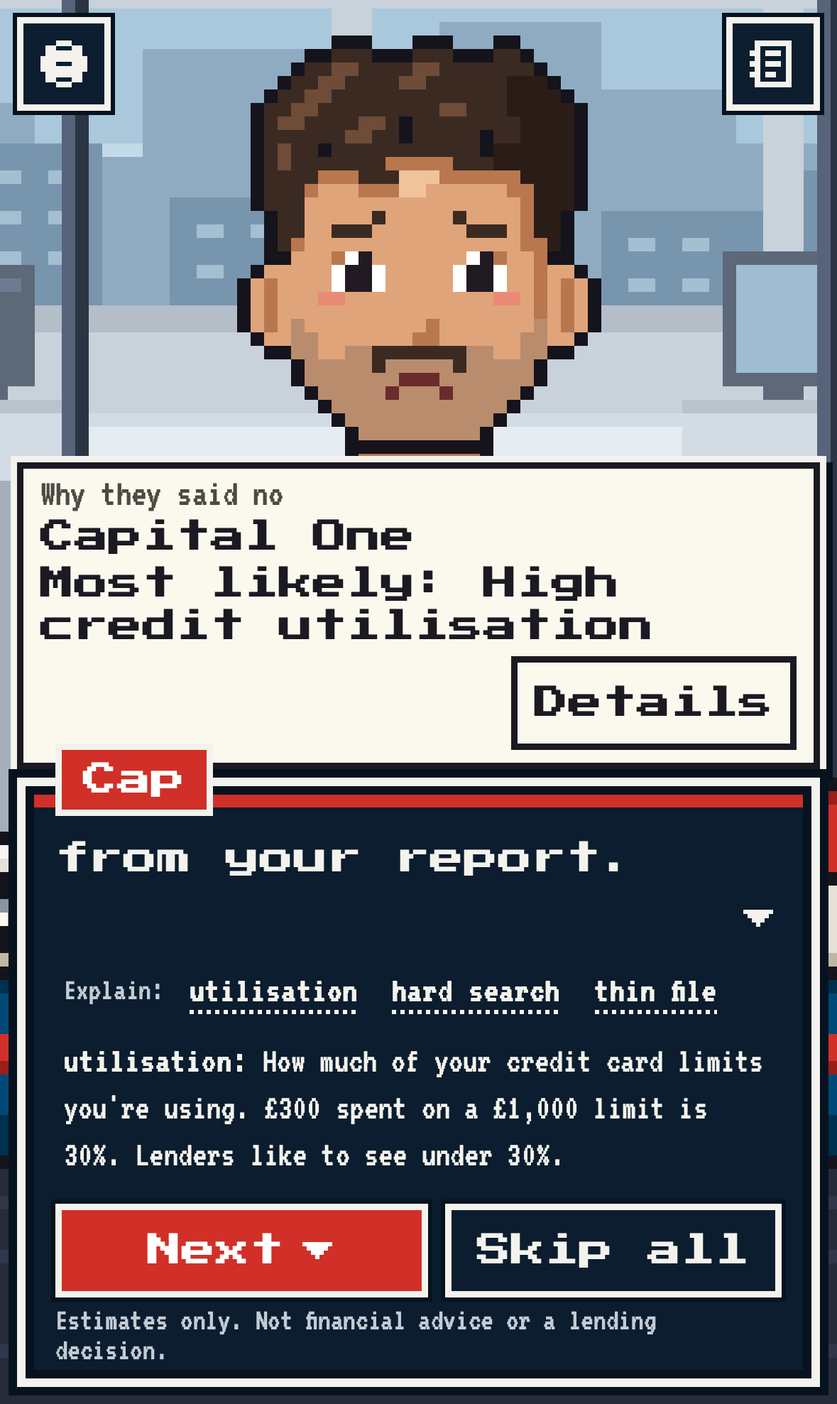
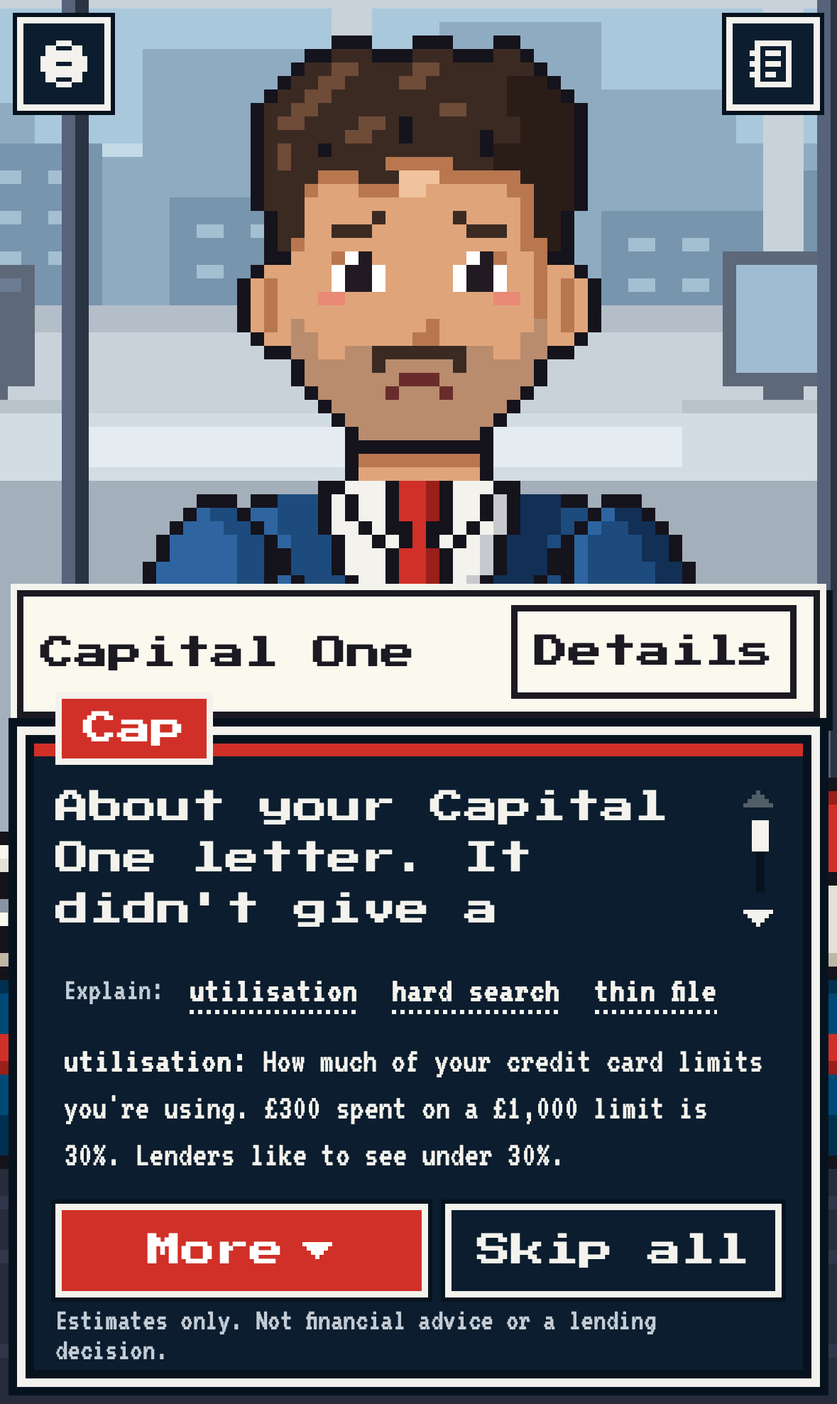
118: RESULT and status done; demo script (20 taps, 173.1 s robot at 1x, 133.3 s at 2x) and DEMO.md (rehearsal gate time, text speed, checks, 118 rehearsal); walk.mjs taps the desk sheet only when uncovered (150% on a phone: Read it, pre-existing on main); contrast.mjs merges every :root block (the P

Changed region(s): [[0.0, 0.3085, 1.0, 0.6788], [0.2748, 0.8639, 0.3359, 0.8948]]

diff --git a/handoffs/118-continuous-typing.md b/handoffs/118-continuous-typing.md
@@ -1,7 +1,7 @@
 ---
 id: 118
 title: Continuous typing in one message, the box scrolls line by line (no page breaks)
-status: in-progress
+status: done
 owner: mihael
 concept: lenders-eyes
 created: 2026-11-08
@@ -26,14 +26,14 @@ Within one message the text types out continuously, with no Next mid-message. Wh
 - Branch `mihael/118` from `main`, not the `/handoff` status flip on `main`: the user asked for main to stay untouched unless every check passes.
 
 ## Requirements
-- [ ] One message types continuously. The box shows its usual number of lines. At the end of the last visible line it scrolls up one line (smooth, about 150 ms) and keeps typing.
-- [ ] Next (tap, Space, Enter) only once the whole message has typed. A tap while typing finishes the message at once, scrolled to its end.
-- [ ] The page-break logic for messages is removed. The speech-bubble fallback uses the same scrolling.
-- [ ] Demo mode: auto-advance after the whole message finishes, with a reading pause based on its length (as now).
-- [ ] Reduced motion: the whole message at once. If it is longer than the box, the box scrolls by tap or arrow keys, with a visible scroll indicator.
-- [ ] Screen readers still get the whole message at once in the live region.
-- [ ] Text size 125% and 150%, and Readable font, still fit and scroll correctly.
-- [ ] `deliverables/pitch/demo-script.md`: the new tap count and time. `app/DEMO.md` if anything changed.
+- [x] One message types continuously. The box shows its usual number of lines. At the end of the last visible line it scrolls up one line (smooth, about 150 ms) and keeps typing.
+- [x] Next (tap, Space, Enter) only once the whole message has typed. A tap while typing finishes the message at once, scrolled to its end.
+- [x] The page-break logic for messages is removed. The speech-bubble fallback uses the same scrolling.
+- [x] Demo mode: auto-advance after the whole message finishes, with a reading pause based on its length (as now).
+- [x] Reduced motion: the whole message at once. If it is longer than the box, the box scrolls by tap or arrow keys, with a visible scroll indicator.
+- [x] Screen readers still get the whole message at once in the live region.
+- [x] Text size 125% and 150%, and Readable font, still fit and scroll correctly.
+- [x] `deliverables/pitch/demo-script.md`: the new tap count and time. `app/DEMO.md` if anything changed.
 
 ## Out of scope
 - The backend, the contract, the camera framing, the menus' own paging (choices still page with More), `context/`
@@ -48,4 +48,113 @@ On the iPhone 15 profile and desktop:
 ---
 
 ## RESULT (filled in by Claude Code)
-- Status: in progress
+- **Status: done. Every check passed, so `mihael/118` is merged into `main` with `--no-ff` and pushed.**
+- Time taken: about 2 h, 2026-11-08 01:41 to ~03:45, unattended. Most of it was verification: two review rounds, and the matrix run three times on frozen code.
+
+### Read this first (three things you may want to change)
+1. **The demo is longer now: 20 taps, 173.1 s with a robot** (it was 113.2 s), about 3:10 with your own taps.
+   - Every line now types out before its reading pause, as asked: "reading pause based on its length, as now".
+   - **Text speed 2x** keeps the same 20 taps: 133.3 s, about 2:30 with your taps. It's one setting on the phone; the demo script and DEMO.md say so.
+   - If you'd rather keep 1x and about 2:00: subtract the typing time from Demo mode's pause, e.g. `max(min, 250*words - typedMs)` in `App.tsx`'s `demoPause`. I did not, because you specified the pause.
+2. **Demo mode now types.** Since 114 it had shown instant text. Your spec, "auto-advance after the whole message finishes", only works if the text types, and instant text would never show a long line's hidden lines. The Settings hint no longer says "Instant text".
+3. **Pre-existing on `main`, not from 118:** at 150% text on the iPhone, the summary sheet on the desk is covered by the paper's window and the box, so it can't be tapped.
+   - I proved it on `main` itself: I put `main`'s `src` back in the working tree for one run, and `walk.mjs --text 150` failed the same way (`main-text150/iphone-declined-FAILED.png` in the session scratchpad), then restored the branch.
+   - The paper still opens with **Read it** in its window. `walk.mjs` now taps the desk sheet only when it is uncovered, and logs which way it opened the paper.
+   - The app is unchanged here. It's a follow-up (below).
+
+### What was built
+- **One message types out continuously.**
+  - The box shows its usual lines: 3 with the camera.
+  - When typing reaches the end of the last visible line, the text slides up one line (`transform`, 150 ms ease-out) and typing waits that long before the new line's first letter.
+  - Measured on the iPhone: each scroll settles in 134 to 135 ms. In 100 frames of typing the letter being typed was never outside the box.
+  - The whole message is in the DOM: printed and unprinted spans. Where each visual line starts is measured with `Range` rects in the existing hidden measurer (`lineStarts` in `GameBox.tsx`), again on font load and resize.
+- **Next only once the whole message has typed.**
+  - While it types, the button says **Show all** and the ▼ is hidden.
+  - A tap, Space, Enter or Show all while typing finishes it at once, scrolled to its end, with no animation. Even a one-line jump is instant.
+- **Page breaks removed.** 117's `paginate`, its break rules and the "extra line" orphan logic are gone. The speech bubble uses the same window and the same scrolling: checked in landscape, tops 0,1,2,3.
+- **Reduced motion and Instant text:** the whole message at once, from its top. A message longer than the box gets a pixel **scroll indicator** in the ▼ gutter: a ▲ that lights when there is text above, a track with the part in view, and a ▼.
+  - **Tap, Space or Enter** scroll on a box-full; at the end they go on.
+  - **↑ ↓** scroll a line, **Page Up/Down** a box-full, and **Home/End** jump (Home/End with the text focused). The wheel scrolls one line a notch.
+  - The **big button says More** while lines are below and scrolls first, so it never skips them (review finding). It says Next at the end. A line that ends its turn on Continue shows More first too.
+  - The arrow keys never take over a menu, a text field, a slider, a sheet or the notebook.
+- **Demo mode:**
+  - Each line types out, then waits 250 ms a word of the whole line: at least 1.2 s, at least 2.5 s with an item window. Then it moves on. It never moves mid-line.
+  - Shown whole (reduced motion), it scrolls on a box-full at a time, each with the pause for the words in view.
+  - It still stops at choices, the paper, the business card and the first Why?, once the line's end is in view.
+  - **Skip all** lands on the turn's last line already typed out.
+- **Screen readers:** the live region still gets the whole message at once.
+  - When a long line can scroll, the text window is a focusable region labelled "Cap's line, scrolls with the up and down arrow keys", holding the line as screen-reader text.
+  - A tap never moves focus there, so a phone's keyboard stays open. Focus that is there stays on the next line, rather than dropping to the page.
+- **Text size and fonts:** the window is `calc(N * 1lh)`. `1lh` follows VT323's `font-size-adjust` (26.0 px, where `getComputedStyle` says 26.4), so it always holds whole lines. Checked at 125%, 150%, Readable and 150% Readable, on both profiles.
+- Kit `useTypewriter` has a new optional `pauseBefore(i)`. Both kit copies are identical (`diff -r` empty).
+
+### Verification (2026-11-08, frozen code at `a92a747` plus script-only changes; offline stack and mock)
+Stacks:
+- **Live, offline:** backend `PORT=8001 DEMO_OFFLINE=true ANTHROPIC_API_KEY= pnpm start`, which printed "Claude OFF (DEMO_OFFLINE=true: cache, then templates); 218 cached outputs". Frontend `VITE_USE_MOCK=false API_TARGET=http://localhost:8001 vite --port 5174 --host`.
+- **Mock:** the frontend on :5176.
+- Your own `pnpm dev` on :5173/:8000 was left alone.
+
+| Check | iPhone 15 (WebKit) | Desktop 1440x900 (Chromium) |
+|---|---|---|
+| The 20 checks, `checks.mjs --base :5176 --live-base :5174 [--desktop]` | `all 20 passed` | `all 20 passed` |
+| Demo walk, live offline stack on the LAN URL `http://172.20.10.6:5174`, `SKIP=steps,reasons,plan NOWHY=1` | `TOTAL 20 taps, 173.1s`; 2x: `TOTAL 20 taps, 133.3s`. Exit 0, no PROBLEM, `requests to other hosts: 0` | `TOTAL 20 taps, 174.5s`, exit 0, no PROBLEM, `requests to other hosts: 0` |
+| 118 checks, `typing.mjs [--desktop]` | `all 30 passed` | `all 28 passed` (no landscape bubble on desktop) |
+| Keyboard only, `walk.mjs --keyboard` | exit 0, 42 shots, 0 PROBLEM | exit 0, 42 shots, 0 PROBLEM |
+| Reduced motion, `--reduced`; and `--keyboard --reduced` | exit 0 / exit 0 | exit 0 |
+| 150% text, `--text 150` | exit 0. The paper opened with Read it; the desk is covered (pre-existing, see above) | exit 0 |
+| Readable font / typing at 1x / live offline stack | exit 0 / exit 0 / exit 0 | — / exit 0 / exit 0 |
+
+- **The demo walk holds:** it waits for the line to type out, requires `data-demo="hold"`, then checks the line is still there past its reading pause. It held at the Why? moment and at the paper.
+- **Static:** `pnpm typecheck` exit 0; `pnpm --filter backend test` `Tests 101 passed (101)`; `pnpm --filter frontend build` built; `node scripts/contrast.mjs` `all pairs pass`; kit `diff -r` empty.
+- **Fixed in a script, not the app:** `contrast.mjs` failed in the first matrix ("token missing", 55 pairs).
+  - The PWA commit `426eaca` on `main` added a safe-area `:root {}` block before the colour tokens, and the script read only the first block. `main`'s `index.css` has the same block order, so it fails there too; I didn't run it on `main`.
+  - It now merges every block with the same selector. 118 adds no colour values.
+- **Screens:**
+  - Committed: `app/frontend/screens/118-{iphone,desktop}-*.png` (typed out, tap to finish, reduced motion top and scrolled, 125/150/Readable, the bubble), refreshed `check-*.png` and new `check-desktop-*.png`.
+  - The ones I looked at: iPhone typing mid-scroll and typed out, tap-finished, reduced motion top (with More), 150%, Readable, the landscape bubble; desktop reduced motion top (before and after the 1rem indicator fix), 150% (the bubble); the demo walk's Why? stop and what-if; the 150% paper failure on the branch and on `main`.
+  - The other screens are from the same checks, which passed, but I didn't open each one.
+  - Walk and demo-walk screens are in the session scratchpad, not committed, to avoid churning about 300 PNGs.
+
+### Review
+The `reviewer` agent read the diff twice, without browsers while the timings ran.
+- **Round 1:** no logic or crash bugs in the scroll model, `advance`, Skip all or Demo mode holds; kit copies identical.
+  1. Docs not updated: done.
+  2. Demo longer: measured, kept as you specified, 2x documented.
+  3. In reduced motion the Next button skipped the lines below the box: **fixed** with More (`f6ac3f9`).
+  4. Focus dropped to `<body>` when the text stopped being scrollable: **fixed** with `tabIndex -1` and the region's text.
+- **Round 2:**
+  - Continue still skipped lines in reduced motion: **fixed**, More first.
+  - A tap on the text could take focus off a phone's text field: **fixed** with `mousedown` `preventDefault` (`a92a747`).
+  - It confirmed More never shows wrongly in typed mode, and `-1` doesn't change the Tab order.
+- The whole matrix ran again after round 2's fixes (which include round 1's). The walks ran once more after the `walk.mjs` paper-step change.
+
+### Files changed (`git diff --stat main...mihael/118`, without PNGs)
+- `app/frontend/src/`:
+  - `App.tsx`
+  - `game/GameBox.tsx`
+  - `game/PixelArrow.tsx`: ▲
+  - `chat/Dock.tsx`: More
+  - `index.css`
+  - `settings.tsx` and `sheets/SettingsSheet.tsx`: the Demo mode hint
+  - `npc/hooks.ts`
+- `app/npc-concept/src/npc/hooks.ts`: identical to the frontend copy
+- `app/frontend/scripts/`:
+  - `typing.mjs`: new
+  - `demo-walk.mjs`: whole lines, typing counts as progress, strict holds, `SPEED`, `DESKTOP`
+  - `checks.mjs`: `--desktop`
+  - `walk.mjs`: `--speed`, the desk-or-Read-it paper step
+  - `contrast.mjs`
+- `app/DISCLOSURES.md`: one row, no new libraries
+- `app/DEMO.md`: the rehearsal gate's time, text speed, `?demo=1` wording, the check commands, a rehearsal entry
+- `deliverables/pitch/demo-script.md`: 20 taps, the 1x times, the 2x option
+- `handoffs/INDEX.md`: the 118 row, and 117 set to done (its file already said done)
+- Screens
+
+### Open issues / follow-ups
+- **The demo length** (see Read this first): choose 1x (about 3:10) or 2x (about 2:30) before judging, and re-run the rehearsal gate with `SPEED=2x` if 2x.
+- **At 150% text on a phone, the desk sheet is covered** by the paper's window and the box, on `main` too. Read it works. A fix would keep the box under the desk top while the paper is on the desk, e.g. fewer text rows there. Not done: it's pre-existing and touches the camera's layout.
+- **Not checked on a device:** Safari on the iPhone, the scroll's feel at 120 Hz, a tap on the text with the keyboard open (the fix is standard WebKit behaviour, untested on iOS), and VoiceOver on the scrollable region.
+- **The optional Why? beat, re-timed:** the same walk with `NOWHY` unset (Why? opened and closed at the hold) gave `TOTAL 22 taps, 174.0s`, exit 0, `requests to other hosts: 0`, against 173.1 s without it.
+  - So it costs 2 taps, and its time is whatever you spend talking over the drawer.
+  - The two other optional beats (steps in full, read aloud) are not re-timed after 118; the script says so.
+- Prompt deltas: none. It ran unattended from one prompt; every judgement call above is mine.

diff --git a/deliverables/pitch/demo-script.md b/deliverables/pitch/demo-script.md
@@ -1,44 +1,47 @@
-# Demo script: about 2 minutes, 20 taps, on the iPhone
+# Demo script: about 3 minutes (2:30 at text speed 2x), 20 taps, on the iPhone
 
 Before judging:
 - `pnpm dev` from the repo root, phone on the hotspot, opened on the frontend's `Network:` URL. Backend warm (one full declined walk with Priya).
 - In Settings (the gear, top left): **Demo mode ON**, **Plain English ON**, read aloud OFF, Camera **B** (the default). Then Start again.
+- Text speed: **1x** is the default and the full typing look. **2x** keeps the same 20 taps and saves about 40 s (robot run 2:13, about 2:30 with your taps): set it if the slot is tight.
 - Ring/silent switch off and volume up, for the optional read-aloud beat (iPhone mutes the web voice in silent mode).
 - Backups: `DEMO_OFFLINE=true` (every answer path of the declined branch is cached in Claude's words), then the recorded video.
 
 **117: Cap is close now.** He fills the screen: waist up, his hands on the keyboard, the Capital One monitor beside him, his words in the box at the bottom.
 
-**Demo mode moves on by itself**, page by page:
-- Each page waits about a quarter of a second a word: at least 1.2 s, and at least 2.5 s when an item window is up.
+**118: each line types out in one go.** When it fills the box, the text scrolls up a line and keeps typing, like an old RPG. There is no Next in the middle of a line.
+
+**Demo mode moves on by itself**, line by line:
+- Each line types out, then waits about a quarter of a second a word of the whole line: at least 1.2 s, and at least 2.5 s when an item window is up.
 - It stops only where you act: a choice, the paper on the desk, the business card, and the first reason's **Why?**.
-- Tap **Next** (or the box) to go faster. **Skip all** jumps to the end of what he is saying.
+- Tap the box (or **Show all**) to finish a line at once, then **Next** to go faster. **Skip all** jumps to the end of what he is saying, its last line already typed out.
 
-Words in quotes are Cap's lines on this path (Priya, declined branch, Plain English on). They come from the real backend, walked on 2026-11-08 with `demo117.mjs` (WebKit, iPhone 15 profile). The plan starts on Monday 9 Nov 2026; re-check the dates and numbers at freeze.
+Words in quotes are Cap's lines on this path (Priya, declined branch, Plain English on). They come from the backend's cached Claude wording, walked on 2026-11-08 ~02:45 after 118 with `app/frontend/scripts/demo-walk.mjs` on the offline stack (`DEMO_OFFLINE=true`, WebKit, iPhone 15 profile, text speed 1x). The plan starts on Monday 9 Nov 2026; re-check the dates and numbers at freeze.
 
-Taps are numbered. Times are from the real run, with a robot tapping at once; leave about 15 to 20 s more for your own taps.
+Taps are numbered. Times are from that run, with a robot tapping at once (it also waits out each stop to check Demo mode holds); leave about 15 to 20 s more for your own taps.
 
 | Time | Do (taps) | Judges see | Say |
 |---|---|---|---|
 | 0:00 | Open the app (or Settings → Start again). **1** Put the card away | Cap at the Capital One desk: "Hi, nice to meet you. My name's Cap, here's my card." He slides it across the desk and it fills the screen: the logo, his portrait, **Cap**, **Credit Coach**, "Here to make your credit make sense" | "This is Cap, a credit coach at the Capital One desk. Today he's helping Priya: 23, renting, one card. Capital One just turned her down for a Balance Transfer card, and the letter doesn't say why." |
 | 0:04 | **2** "Nice to meet you, Cap!" | (by itself) "Nothing we do here is a credit search, so it can't harm your score." / "I understand you're here to make your credit better. Where should we start?" with four choices | "He starts where she is: declined, with a report, getting ready, or new to credit." |
-| 0:10 | **3** "I've been declined already" | "Oh, I'm sorry. That's frustrating, and the letter rarely says why. Let's work it out together." / "Have you got the letter they sent?" | |
-| 0:18 | **4, 5, 6** Use a sample, once each time he asks (the letter, her report, her bank data) | He takes each one: "Thanks, that's your Capital One letter." / "Thanks, Priya. I've got your Experian report." / "Your score there is 700 out of 999." / "Got it. After rent, bills and the basics you have about £290 a month left over." | "She hands over the letter, her Experian report and three months of bank data. Real uploads work too: Upload, or drop a file anywhere on the page." |
-| 0:40 | (by itself, about 27 s) | "About your Capital One letter. It didn't give a reason, so I've worked out the most likely ones from your report." with the **Why they said no** window: Capital One, most likely high credit utilisation. Then "The one fix that matters most: get your cards under 30% (£348 or less)." / "Pay £175 extra this month, then £215 a month." / "Don't apply again before Jul 2027." / "Run Capital One QuickCheck first. It's a soft search…" / her rights | "First, why she was declined: likely reasons, ranked. The one fix that matters most, and when to try again: not before July 2027, and only after a soft-search QuickCheck." |
-| 1:07 | **7** "What can I do?", **8** Skip all | "Here's where to start. Three steps…" (dated steps; Skip all goes to the goals question) | "Then concrete steps, with her own dates and amounts." |
-| 1:08 | **9** "The Balance Transfer card", **10** "3 months", **11** "Yes, I can", **12** "No" | "Now, what would you like to aim for?" / "And how soon? I can plan for the next 3 months or the next 6." / "Your report says you're not on the electoral roll at your current address. Can you register to vote there?" / "You pay the minimum on your Barclaycard each month. Is that set up as a Direct Debit?" | "Four questions: her goal, how soon, and two things he spotted in her data." |
-| 1:17 | (by itself, about 13 s) | "Thanks! Give me a moment to build your plan towards the Balance Transfer card." Then "Two things are holding you back most right now…" / "Here's what's holding your score back, worst first." He **stops** on "You're using 79% of your £1,200 total limit (£950)." with the **Reason 1** window: Credit utilisation, **Problem**, a 10-block health bar, "79% of your £1,200 limit used", **Why?** | "Every number has a because: her own data, the rule, and where the rule comes from. That's behind Why?." |
-| 1:30 | **13** Skip all, **14** "Sum it up for me" | "Here's all of that on one sheet. Tap it to read it, or take a copy with you." Cap slides the summary onto the desk and **stops** | "He hands her the summary to keep, as a PDF." |
-| 1:36 | **15** Tap the sheet on the desk (or **Read it** in the window), **16** close it | The one-page summary | |
-| 1:44 | **17** "Make me a plan", **18** "3 months", **19** Skip all | "Right, let's make you a plan." / "Here's your 3-month plan: 12 steps, week by week." Skip all goes to the end: the estimate and the next card, then "For example: what if I pay £300 a month?" | "A dated plan with her own numbers, 12 steps, week by week." |
-| 1:46 | **20** "What if I pay £400 a month?" | "Paying £400 extra a month: by Feb 2027 your score could be 747 to 854, up from 735 to 836. An estimate. You'd get under 30% by Jan 2027." with the **What if** window | "She can ask what if. Plain English, read aloud, voice in, colour-safe modes. Credit made understandable, one conversation at a time." |
-| 1:51 | End. Optional: the notebook (top right) → **Your plan** | Every card so far in Cap's notebook | |
+| 0:13 | **3** "I've been declined already" | "Oh, I'm sorry. That's frustrating, and the letter rarely says why. Let's work it out together." / "Have you got the letter they sent?" | |
+| 0:27 | **4, 5, 6** Use a sample, once each time he asks (the letter, her report, her bank data) | He takes each one: "Thanks, that's your Capital One letter." / "Thanks, Priya. I've got your Experian report." / "Your score there is 700 out of 999." / "Got it. After rent, bills and the basics you have about £290 a month left over." | "She hands over the letter, her Experian report and three months of bank data. Real uploads work too: Upload, or drop a file anywhere on the page." |
+| 0:52 | (by itself, about 51 s) | "About your Capital One letter. It didn't give a reason, so I've worked out the most likely ones from your report." with the **Why they said no** window: Capital One, most likely high credit utilisation. Then "The one fix that matters most: get your cards under 30% (£348 or less)." / "Pay £175 extra this month, then £215 a month." / "Don't apply again before Jul 2027." / "Run Capital One QuickCheck first. It's a soft search…" / her rights | "First, why she was declined: likely reasons, ranked. The one fix that matters most, and when to try again: not before July 2027, and only after a soft-search QuickCheck." |
+| 1:44 | **7** "What can I do?", **8** Skip all | "Here's where to start. Three steps…" (dated steps; Skip all goes to the goals question) | "Then concrete steps, with her own dates and amounts." |
+| 1:44 | **9** "The Balance Transfer card", **10** "3 months", **11** "Yes, I can", **12** "No" | "Now, what would you like to aim for?" / "And how soon? I can plan for the next 3 months or the next 6." / "Your report says you're not on the electoral roll at your current address. Can you register to vote there?" / "You pay the minimum on your Barclaycard each month. Is that set up as a Direct Debit?" | "Four questions: her goal, how soon, and two things he spotted in her data." |
+| 1:55 | (by itself, about 30 s) | "Thanks! Give me a moment to build your plan towards the Balance Transfer card." Then "Two things are holding you back most right now…" / "Here's what's holding your score back, worst first." He **stops** on "You're using 79% of your £1,200 total limit (£950)." with the **Reason 1** window: Credit utilisation, **Problem**, a 10-block health bar, "79% of your £1,200 limit used", **Why?** | "Every number has a because: her own data, the rule, and where the rule comes from. That's behind Why?." |
+| 2:31 | **13** Skip all, **14** "Sum it up for me" | "Here's all of that on one sheet. Tap it to read it, or take a copy with you." Cap slides the summary onto the desk and **stops** | "He hands her the summary to keep, as a PDF." |
+| 2:34 | **15** Tap the sheet on the desk (or **Read it** in the window), **16** close it | The one-page summary | |
+| 2:41 | **17** "Make me a plan", **18** "3 months", **19** Skip all | "Right, let's make you a plan." / "Here's your 3-month plan: 12 steps, week by week." Skip all goes to the end: the estimate and the next card, then "For example: what if I pay £300 a month?" | "A dated plan with her own numbers, 12 steps, week by week." |
+| 2:45 | **20** "What if I pay £400 a month?" | "Paying £400 extra a month: by Feb 2027 your score could be 747 to 854, up from 735 to 836. An estimate. You'd get under 30% by Jan 2027." with the **What if** window | "She can ask what if. Plain English, read aloud, voice in, colour-safe modes. Credit made understandable, one conversation at a time." |
+| 2:53 | End. Optional: the notebook (top right) → **Your plan** | Every card so far in Cap's notebook | |
 
-**Taps**: 20, all listed above (from the real run: `TOTAL 20 taps, 113.2s`, 2026-11-08 after the page-break fix). The run took 1:53 with a robot tapping at once, so about 2:10 with your own taps. Every choice the script taps is on the first page of its menu on the iPhone 15.
+**Taps**: 20, all listed above (from the run: `TOTAL 20 taps, 173.1s`, 2026-11-08 after 118). The run took 2:53 with a robot tapping at once, so about 3:10 with your own taps. At text speed 2x the same walk is `TOTAL 20 taps, 133.3s`, about 2:30 with your taps. Before 118 (pages, instant text in Demo mode) it was 113.2 s: every line now types out before its reading pause. Every choice the script taps is on the first page of its menu on the iPhone 15.
 
 Optional beats, if there is time:
-- **Why? at 1:30** (+2 taps, about 8 s): tap **Why?** on the Reason 1 window, show the because drawer (the rule, her data, the source), close it. Demo mode then moves on by itself; tap Skip all as before.
+- **Why? at 2:24** (+2 taps; the walk with it was `TOTAL 22 taps, 174.0s` against 173.1 s, so its time is what you spend talking over it, about 8 s): tap **Why?** on the Reason 1 window, show the because drawer (the rule, her data, the source), close it. Demo mode then moves on by itself; tap Skip all as before.
 - **Typed what-if** (+2 taps): "Type or say my own", type or say "what if I pay 300 a month?", Send.
 - **Read aloud** (+3 taps, before the £400 tap): gear → Read replies aloud on → close. He reads the whole £400 answer aloud (about 10 seconds); Demo mode waits for the voice.
-- **Steps in full** (no Skip all at 1:07): about 25 s more of dated steps.
+- **Steps in full** (no Skip all at 1:44): more than the 25 s it was before 118, now that each step types out (not re-timed).
 
-If short of time: let Demo mode run and say less; the taps stay the same. If Demo mode is off, every page needs its own Next tap (116 needed 77 taps in all): turn it on.
+If short of time: set text speed 2x before judging, or tap the box to finish a long line; the taps stay the same. If Demo mode is off, every line needs its own Next tap (and a tap while a line types only finishes it): turn it on.

diff --git a/app/DEMO.md b/app/DEMO.md
@@ -20,20 +20,20 @@ Do this in order, about 10 minutes before judging. Every command runs from the r
 5. **Phone URL:** `echo "http://$(ipconfig getifaddr en0):5173/"`. Open it in Safari on the iPhone; Vite also prints it as the `Network:` line for en0.
 6. **Warm and check:**
    - From the Mac: `cd app/frontend && SKIP=steps,reasons,plan NOWHY=1 node scripts/demo-walk.mjs "http://$(ipconfig getifaddr en0):5173"`.
-   - It must end `TOTAL 20 taps` (about 113 s) and `requests to other hosts: 0`, with no `PROBLEM` line.
+   - It must end `TOTAL 20 taps` (about 173 s at the default text speed 1x; if you will use 2x on the phone, put `SPEED=2x ` in front of the command: about 133 s) and `requests to other hosts: 0`, with no `PROBLEM` line.
    - It also warms the backend.
 7. **On the iPhone:**
-   - Settings (the gear, top left): **Demo mode** on, **Plain English** on, Read aloud off, Camera **B**, then **Start again**.
+   - Settings (the gear, top left): **Demo mode** on, **Plain English** on, Read aloud off, Camera **B**, Text speed **1x** (or **2x** for a demo about 40 s shorter), then **Start again**.
    - Ring/silent switch off and volume up, for the optional read-aloud beat.
    - Portrait.
-8. **The demo:** `deliverables/pitch/demo-script.md`, 20 taps, about 2:10.
+8. **The demo:** `deliverables/pitch/demo-script.md`, 20 taps, about 3:10 at 1x (about 2:30 at 2x). Since 118 each line types out in one go and the box scrolls; Demo mode moves on after the whole line.
 
 ## Add to Home Screen (optional: full screen, no Safari bars)
 Cap is a web app (manifest `app/frontend/public/manifest.json`, icon from Cap's pixel face). On the iPhone, after step 5 above:
 1. Open the phone URL in **Safari**. It must be Safari, not a browser inside another app.
 2. Tap **Share** (the square with the arrow) → scroll down → **Add to Home Screen**. The name shows as **Cap**, with his face as the icon. Tap **Add**.
 3. Open **Cap** from the home screen. It runs full screen. The status bar sits over the scene; the corner icons, Cap's head and the dialogue box stay clear of the Dynamic Island and the home bar.
-4. Settings inside the app are separate from Safari's, so set them again: **Demo mode** on, **Plain English** on, Camera **B**, **Start again**.
+4. Settings inside the app are separate from Safari's, so set them again: **Demo mode** on, **Plain English** on, Camera **B**, the same Text speed, **Start again**.
 - The icon remembers the exact URL (the Mac's address and port). If the hotspot gives the Mac a new address, delete the icon (press and hold → Remove App → Delete from Home Screen) and add it again from the new URL.
 - If the home-screen app shows "Safari cannot open the page", the Mac's server is down or on another address. Use Safari with the new URL.
 
@@ -83,12 +83,16 @@ Other branches from the opening: **I've got a credit report I want help with** (
 
 ## Frontend (handoff 114)
 - Start: `cd app/frontend && pnpm dev --host` (mock, the default) or `VITE_USE_MOCK=false pnpm dev --host` (the backend on `API_TARGET`, default `http://localhost:8000`, through the Vite proxy). Settings in `app/frontend/.env` (see `.env.example`)
-- URL switches for the phone (no restart): `?mock=off` real backend, `?mock=on` mock, `?mock=error` the error state, `?mock=uploadfail` a failed upload, `?demo=1` demo mode (Priya picked for you; Cap moves on page by page by himself and stops where you act), `?framing=A|B|C|full` the camera (B is the default)
+- URL switches for the phone (no restart): `?mock=off` real backend, `?mock=on` mock, `?mock=error` the error state, `?mock=uploadfail` a failed upload, `?demo=1` demo mode (Priya picked for you; each line types out, then Cap moves on by himself and stops where you act), `?framing=A|B|C|full` the camera (B is the default)
 - Port 5173 must be free: on 2026-11-07 the old `app/npc-concept` dev server from the main checkout was still on it. Stop it (Ctrl+C in its terminal) before starting the frontend
-- Checks: `node scripts/walk.mjs` (whole flow, WebKit iPhone 15, screenshots in `app/frontend/screens/`; flags `--keyboard`, `--reduced`, `--text 150`, `--colour okabe|contrast`, `--desktop`, `--live`, `--base <url>`), `node scripts/checks.mjs` (live region, error and upload-failure states, letter at any step, read aloud, mic, settings), `node scripts/contrast.mjs` (WCAG AA for every colour pair in each colour mode)
+- Checks: `node scripts/walk.mjs` (whole flow, WebKit iPhone 15, screenshots in `app/frontend/screens/`; flags `--keyboard`, `--reduced`, `--text 150`, `--readable`, `--colour okabe|contrast`, `--desktop`, `--live`, `--speed 1x`, `--base <url>`, `--out <dir>`), `node scripts/checks.mjs` (live region, error and upload-failure states, letter at any step, read aloud, mic, settings; `--desktop`), `node scripts/typing.mjs` (118: a line types out whole and the box scrolls a line at a time, tap to finish, reduced motion scrolling and its indicator, 125%/150%/Readable, the speech bubble, Demo mode's pause; `--desktop`), `node scripts/contrast.mjs` (WCAG AA for every colour pair in each colour mode)
 - On the phone: the text box pins above the keyboard; the mic uses the browser's speech recognition where it exists, else it points at the keyboard's dictation key
 
 ## Rehearsals
+- **2026-11-08 ~02:45, offline, on the Mac, after 118 (continuous typing)** (`app/frontend/scripts/demo-walk.mjs`):
+  - **Stack:** as below: backend `PORT=8001 DEMO_OFFLINE=true ANTHROPIC_API_KEY=` ("Claude OFF (DEMO_OFFLINE=true: cache, then templates); 218 cached outputs"), frontend `VITE_USE_MOCK=false API_TARGET=http://localhost:8001 vite --port 5174 --host`, walked on the LAN URL http://172.20.10.6:5174/ (en0 on the iPhone hotspot this time).
+  - **Result:** iPhone 15 at text speed 1x `TOTAL 20 taps, 173.1s`; at 2x `TOTAL 20 taps, 133.3s`; desktop 1440x900 at 1x (`DESKTOP=1`) `TOTAL 20 taps, 174.5s`. Every run exit 0, no PROBLEM line, `requests to other hosts: 0`. Demo mode said `hold` at the Why? moment and at the paper once their lines had typed, and stayed past their reading pause.
+  - **Not done, needs the phone:** Safari on the iPhone itself, mobile data off.
 - **2026-11-08 ~01:00, offline, on the Mac** (`app/frontend/scripts/demo-walk.mjs`, WebKit iPhone 15 profile):
   - **Stack:** a second stack beside `pnpm dev`. The backend ran with `PORT=8001 DEMO_OFFLINE=true ANTHROPIC_API_KEY=` and printed "Claude OFF (DEMO_OFFLINE=true: cache, then templates); 214 cached outputs". The frontend was `VITE_USE_MOCK=false API_TARGET=http://localhost:8001 vite --port 5174 --host`.
   - **URL walked:** the LAN address http://100.65.209.5:5174/ (en0), the way a phone reaches it.

diff --git a/handoffs/INDEX.md b/handoffs/INDEX.md
@@ -21,4 +21,5 @@ Owner: `mihael` or `partner`. Only take your own. Pull before you start.
 | 114 | Phase B frontend, NPC chat on iPhone, every message type, accessibility | mihael | done | 2026-11-07 |
 | 115 | Cap, business card intro, opening question and branching flow | mihael | done | 2026-11-07 |
 | 116 | Full-screen scene, 8-bit game dialogue text, expandable side panel | mihael | done | 2026-11-07 |
-| 117 | Cap closer, framing options, speech bubble fallback, demo-mode auto-advance | mihael | in-progress | 2026-11-07 |
+| 117 | Cap closer, framing options, speech bubble fallback, demo-mode auto-advance | mihael | done | 2026-11-07 |
+| 118 | Continuous typing in one message, the box scrolls line by line (no page breaks) | mihael | done | 2026-11-08 |
